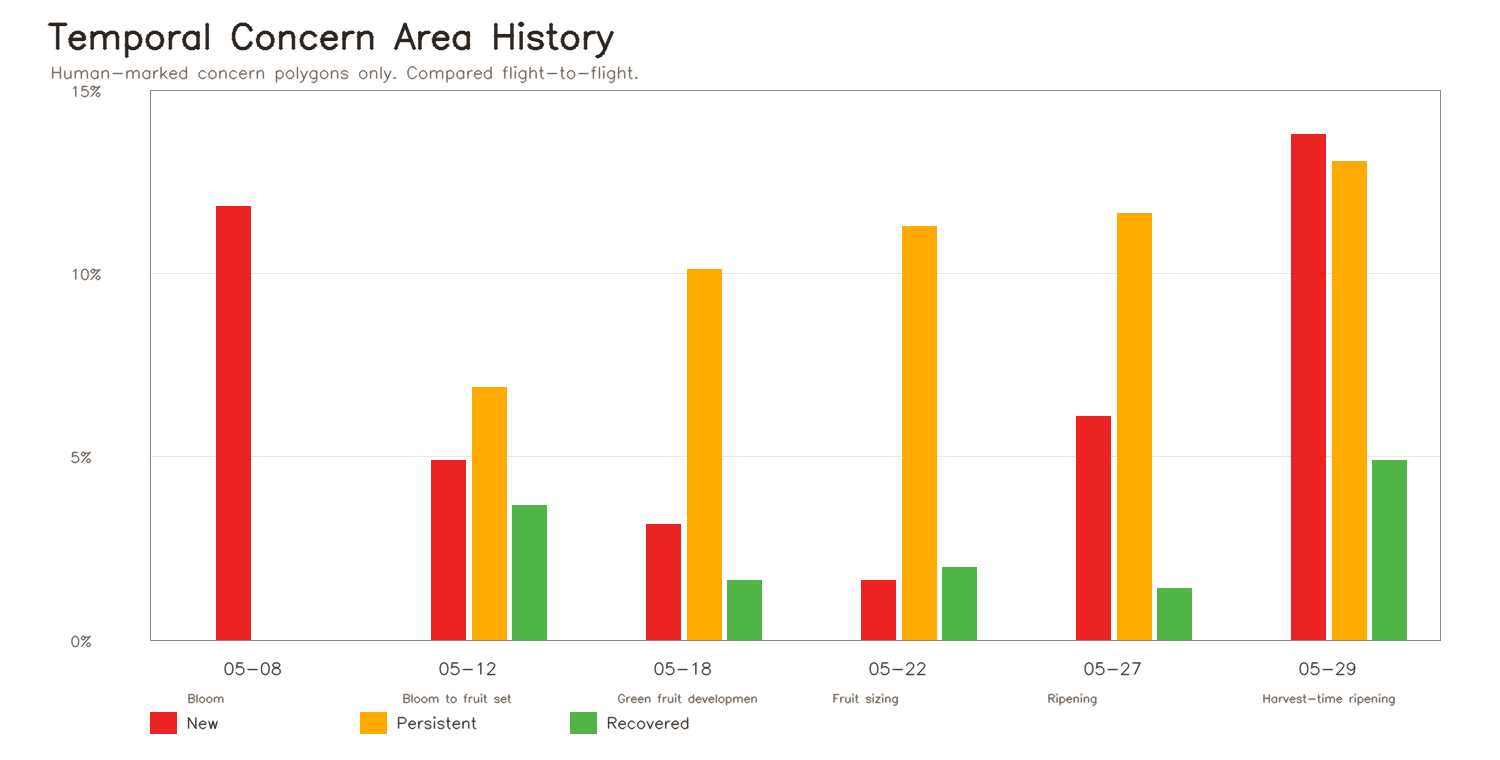
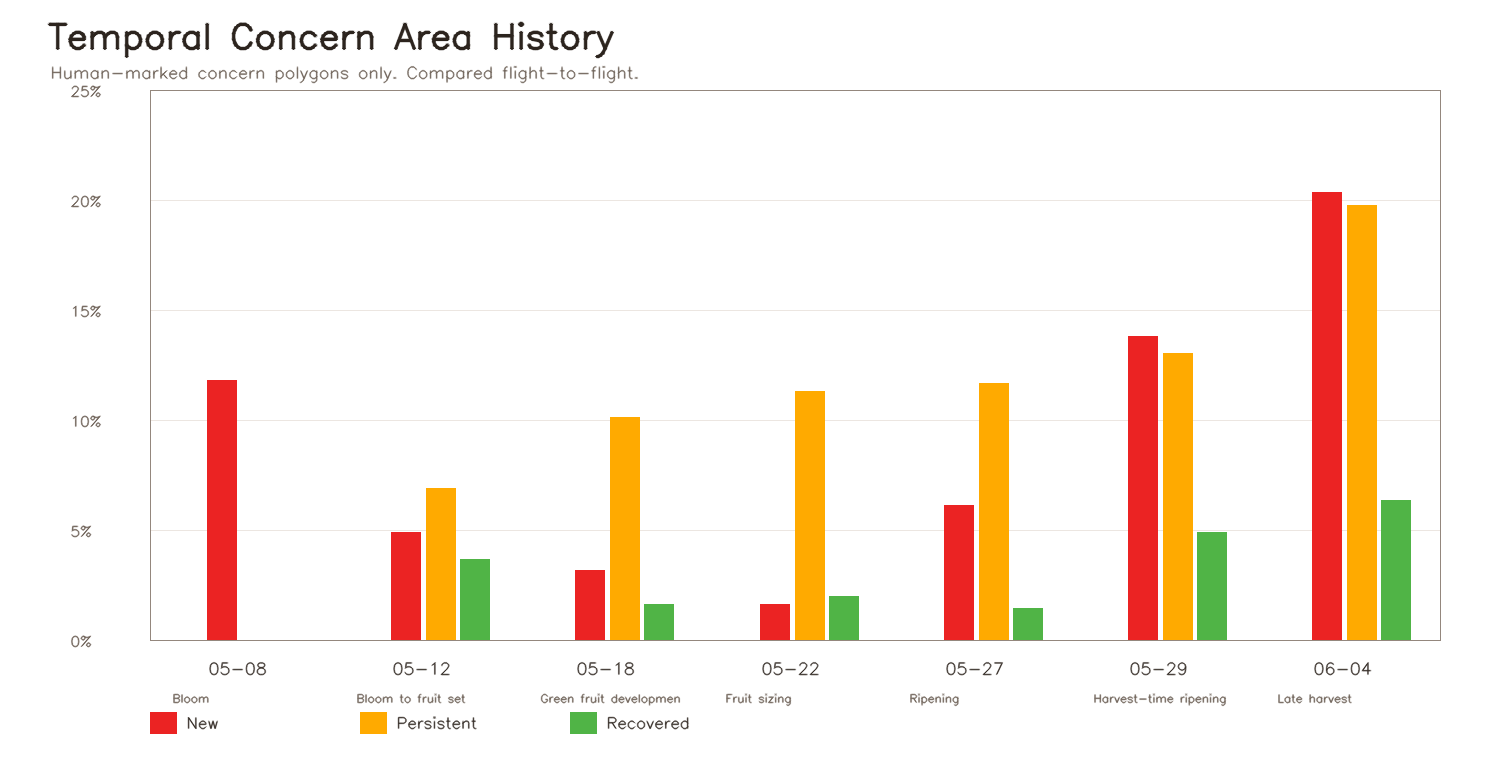
Add June 4 concern review outputs

diff --git a/web_viewer/app.js b/web_viewer/app.js
@@ -17,7 +17,8 @@ const DATES = [
     "persistentConcern": "0.0",
     "recovered": "0.0",
     "status": "Expanding",
-    "statusNote": "Concern area increased since previous flight."
+    "statusNote": "Concern area increased since previous flight.",
+    "annotationNote": ""
   },
   {
     "date": "2026-05-12",
@@ -37,7 +38,8 @@ const DATES = [
     "persistentConcern": "6.875",
     "recovered": "3.656",
     "status": "Monitor",
-    "statusNote": "Monitor concern areas on next flight."
+    "statusNote": "Monitor concern areas on next flight.",
+    "annotationNote": ""
   },
   {
     "date": "2026-05-18",
@@ -57,7 +59,8 @@ const DATES = [
     "persistentConcern": "10.117",
     "recovered": "1.632",
     "status": "Monitor",
-    "statusNote": "Monitor concern areas on next flight."
+    "statusNote": "Monitor concern areas on next flight.",
+    "annotationNote": ""
   },
   {
     "date": "2026-05-22",
@@ -77,7 +80,8 @@ const DATES = [
     "persistentConcern": "11.273",
     "recovered": "1.978",
     "status": "Stable",
-    "statusNote": "Concern footprint is stable relative to previous flight."
+    "statusNote": "Concern footprint is stable relative to previous flight.",
+    "annotationNote": ""
   },
   {
     "date": "2026-05-27",
@@ -97,7 +101,8 @@ const DATES = [
     "persistentConcern": "11.641",
     "recovered": "1.411",
     "status": "Monitor",
-    "statusNote": "Monitor concern areas on next flight."
+    "statusNote": "Monitor concern areas on next flight.",
+    "annotationNote": ""
   },
   {
     "date": "2026-05-29",
@@ -117,7 +122,29 @@ const DATES = [
     "persistentConcern": "13.039",
     "recovered": "4.907",
     "status": "Review",
-    "statusNote": "Concern expanded sharply since previous flight."
+    "statusNote": "Concern expanded sharply since previous flight.",
+    "annotationNote": ""
+  },
+  {
+    "date": "2026-06-04",
+    "growthStage": "Late harvest / post-harvest review",
+    "source": "Mallard-Avenue-6-4-2026-orthophoto-NDVI.png",
+    "raw": "assets/2026-06-04/raw.png",
+    "human": "assets/2026-06-04/human_annotation_overlay.png",
+    "density": "assets/2026-06-04/concern_density.png",
+    "preview": "assets/2026-06-04/vigour_zone_preview.png",
+    "uncertainty": "assets/2026-06-04/uncertainty.png",
+    "newConcernLayer": "assets/2026-06-04/new_concern.png",
+    "persistentConcernLayer": "assets/2026-06-04/persistent_concern.png",
+    "recoveredLayer": "assets/2026-06-04/recovered_area.png",
+    "print": "assets/2026-06-04/print.png",
+    "percentFieldAffected": "40.095",
+    "newConcern": "20.349",
+    "persistentConcern": "19.746",
+    "recovered": "6.319",
+    "status": "Review",
+    "statusNote": "Concern expanded sharply since previous flight.",
+    "annotationNote": "Concern polygons only; no low/medium/high vigour annotation source available."
   }
 ];
 
@@ -217,6 +244,7 @@ function render() {
   el("statusBadge").textContent = entry.status || "Monitor";
   el("statusBadge").className = `status-badge ${String(entry.status || "Monitor").toLowerCase()}`;
   el("statusNote").textContent = entry.date === "2026-05-29" ? "Concern expanded sharply since previous flight." : (entry.statusNote || "");
+  el("annotationNote").textContent = entry.annotationNote || "";
   el("temporalMetrics").innerHTML = `
     <div><strong>${entry.percentFieldAffected || "0"}%</strong><span>field affected</span></div>
     <div><strong>${entry.newConcern || "0"}%</strong><span>new</span></div>

diff --git a/web_viewer/index.html b/web_viewer/index.html
@@ -35,6 +35,7 @@
     <p>Ground check required.</p>
     <div id="statusBadge" class="status-badge">Monitor</div>
     <p id="statusNote" class="status-note"></p>
+    <p id="annotationNote" class="annotation-note"></p>
     <div id="temporalMetrics" class="metrics"></div>
     <figure class="chart">
       <img src="assets/temporal_timeline_chart.png" alt="Temporal concern area chart">

diff --git a/web_viewer/styles.css b/web_viewer/styles.css
@@ -79,6 +79,11 @@ input[type="range"] { width: 100%; }
   color: #f0c36a !important;
   line-height: 1.35;
 }
+.annotation-note {
+  color: #f0c36a !important;
+  font-size: 12px;
+  line-height: 1.35;
+}
 .metrics {
   display: grid;
   grid-template-columns: 1fr 1fr;

diff --git a/build_product_v1_web_viewer.py b/build_product_v1_web_viewer.py
@@ -21,7 +21,15 @@ PRODUCT_DIR = ROOT / "human_anchored_vigour_zone_preview_product"
 PRINT_DIR = ROOT / "daily_outputs"
 VIEWER_DIR = ROOT / "web_viewer"
 ASSETS_DIR = VIEWER_DIR / "assets"
-DATES = ["2026-05-08", "2026-05-12", "2026-05-18", "2026-05-22", "2026-05-27", "2026-05-29"]
+DATES = ["2026-05-08", "2026-05-12", "2026-05-18", "2026-05-22", "2026-05-27", "2026-05-29", "2026-06-04"]
+EXTRA_SUMMARY = {
+    "2026-06-04": {
+        "raw_path": r"C:\Users\Chimera\Downloads\Strawberry 1\Mallard-Avenue-6-4-2026-orthophoto-NDVI.png",
+        "annotated_path": "",
+        "polygon_path": r"C:\Users\Chimera\Downloads\strawberry1-annotation-polygon\Mallard-Avenue-6-4-2026-orthophoto-NDVI-polygon.png",
+        "status": "REVIEW",
+    }
+}
 
 COLORS_BGR = {
     "low_vigour": (35, 35, 235),
@@ -33,7 +41,9 @@ COLORS_BGR = {
 def read_summary() -> dict[str, dict[str, str]]:
     path = PRODUCT_DIR / "product_audit_summary.csv"
     with path.open(newline="", encoding="utf-8") as handle:
-        return {row["date"]: row for row in csv.DictReader(handle)}
+        rows = {row["date"]: row for row in csv.DictReader(handle)}
+    rows.update({date: value for date, value in EXTRA_SUMMARY.items() if date not in rows})
+    return rows
 
 
 def read_temporal_analytics() -> dict[str, dict[str, str]]:
@@ -71,6 +81,8 @@ def write_png(path: Path, image: np.ndarray) -> None:
 
 
 def human_annotation_overlay(raw_bgr: np.ndarray, annotated_path: str) -> np.ndarray:
+    if not annotated_path or not Path(annotated_path).exists():
+        return np.zeros((*raw_bgr.shape[:2], 4), dtype=np.uint8)
     annotated = load(annotated_path)
     annotated, _ = resize_annotated_to_raw(raw_bgr, annotated)
     annotation_mask = get_annotation_mask(raw_bgr, annotated)
@@ -135,7 +147,11 @@ def build_assets() -> list[dict[str, str]]:
         uncertainty = cv2.resize(load(date_dir / "concern_uncertainty_panel.png"), (raw.shape[1], raw.shape[0]), interpolation=cv2.INTER_AREA)
 
         write_png(out_dir / "raw.png", raw)
-        write_png(out_dir / "human_annotation_overlay.png", human_annotation_overlay(raw, row["annotated_path"]))
+        human_layer = human_annotation_overlay(raw, row.get("annotated_path", ""))
+        if not np.any(human_layer[:, :, 3]):
+            concern_reference = cv2.resize(load(date_dir / "seed_polygons.png"), (raw.shape[1], raw.shape[0]), interpolation=cv2.INTER_NEAREST)
+            human_layer = rgba_from_layer(concern_reference, np.any(concern_reference > 0, axis=2), 225)
+        write_png(out_dir / "human_annotation_overlay.png", human_layer)
         write_png(out_dir / "concern_density.png", concern_density_overlay(seed))
         write_png(out_dir / "vigour_zone_preview.png", preview_overlay(preview))
         write_png(out_dir / "uncertainty.png", uncertainty_overlay(uncertainty))
@@ -163,6 +179,7 @@ def build_assets() -> list[dict[str, str]]:
                 "recovered": temporal_row.get("recovered_percent_field", ""),
                 "status": temporal_row.get("status", "Monitor"),
                 "statusNote": temporal_row.get("status_note", ""),
+                "annotationNote": "Concern polygons only; no low/medium/high vigour annotation source available." if not row.get("annotated_path") else "",
             }
         )
     return rows
@@ -208,6 +225,7 @@ def write_viewer(rows: list[dict[str, str]]) -> None:
     <p>Ground check required.</p>
     <div id="statusBadge" class="status-badge">Monitor</div>
     <p id="statusNote" class="status-note"></p>
+    <p id="annotationNote" class="annotation-note"></p>
     <div id="temporalMetrics" class="metrics"></div>
     <figure class="chart">
       <img src="assets/temporal_timeline_chart.png" alt="Temporal concern area chart">
@@ -377,6 +395,7 @@ function render() {
   el("statusBadge").textContent = entry.status || "Monitor";
   el("statusBadge").className = `status-badge ${String(entry.status || "Monitor").toLowerCase()}`;
   el("statusNote").textContent = entry.date === "2026-05-29" ? "Concern expanded sharply since previous flight." : (entry.statusNote || "");
+  el("annotationNote").textContent = entry.annotationNote || "";
   el("temporalMetrics").innerHTML = `
     <div><strong>${entry.percentFieldAffected || "0"}%</strong><span>field affected</span></div>
     <div><strong>${entry.newConcern || "0"}%</strong><span>new</span></div>
@@ -480,6 +499,11 @@ input[type="range"] { width: 100%; }
 .status-badge.review { background: #9a1f26; }
 .status-note {
   color: #f0c36a !important;
+  line-height: 1.35;
+}
+.annotation-note {
+  color: #f0c36a !important;
+  font-size: 12px;
   line-height: 1.35;
 }
 .metrics {

diff --git a/build_june4_concern_assets.py b/build_june4_concern_assets.py
@@ -1,0 +1,106 @@
+from __future__ import annotations
+
+from pathlib import Path
+
+import cv2
+import numpy as np
+
+from strawberry_vigour_polygon_report.src.annotation_parser import get_annotation_mask, resize_annotated_to_raw
+from strawberry_vigour_polygon_report.src.growth_stage import growth_stage_for_date
+
+
+ROOT = Path(__file__).resolve().parent
+PRODUCT_DIR = ROOT / "human_anchored_vigour_zone_preview_product"
+DATE = "2026-06-04"
+RAW_PATH = Path(r"C:\Users\Chimera\Downloads\Strawberry 1\Mallard-Avenue-6-4-2026-orthophoto-NDVI.png")
+POLYGON_PATH = Path(r"C:\Users\Chimera\Downloads\strawberry1-annotation-polygon\Mallard-Avenue-6-4-2026-orthophoto-NDVI-polygon.png")
+
+
+def load(path: Path) -> np.ndarray:
+    image = cv2.imread(str(path), cv2.IMREAD_COLOR)
+    if image is None:
+        raise FileNotFoundError(path)
+    return image
+
+
+def save(path: Path, image: np.ndarray) -> None:
+    path.parent.mkdir(parents=True, exist_ok=True)
+    cv2.imwrite(str(path), image)
+
+
+def extract_polygon_masks(raw: np.ndarray, polygon: np.ndarray) -> tuple[np.ndarray, np.ndarray]:
+    diff_mask = get_annotation_mask(raw, polygon)
+    gray = cv2.cvtColor(polygon, cv2.COLOR_BGR2GRAY)
+    stroke = ((gray < 80) & (diff_mask > 0)).astype(np.uint8) * 255
+    kernel = cv2.getStructuringElement(cv2.MORPH_ELLIPSE, (5, 5))
+    closed = cv2.morphologyEx(stroke, cv2.MORPH_CLOSE, kernel)
+    contours, _hierarchy = cv2.findContours((closed > 0).astype(np.uint8), cv2.RETR_EXTERNAL, cv2.CHAIN_APPROX_SIMPLE)
+    filled = np.zeros_like(stroke)
+    min_area = max(150.0, raw.shape[0] * raw.shape[1] * 0.00001)
+    for contour in contours:
+        if cv2.contourArea(contour) >= min_area:
+            cv2.drawContours(filled, [contour], -1, 255, cv2.FILLED)
+    return stroke, filled
+
+
+def transparent_overlay(raw: np.ndarray, layer: np.ndarray, alpha: float) -> np.ndarray:
+    active = np.any(layer > 0, axis=2)
+    mixed = cv2.addWeighted(raw, 1.0 - alpha, layer, alpha, 0)
+    out = raw.copy()
+    out[active] = mixed[active]
+    return out
+
+
+def panel(image: np.ndarray, title: str, size: tuple[int, int] = (520, 360)) -> np.ndarray:
+    w, h = size
+    title_h = 40
+    canvas = np.full((h + title_h, w, 3), 255, dtype=np.uint8)
+    scale = min(w / image.shape[1], h / image.shape[0])
+    resized = cv2.resize(image, (max(1, int(image.shape[1] * scale)), max(1, int(image.shape[0] * scale))), interpolation=cv2.INTER_AREA)
+    x = (w - resized.shape[1]) // 2
+    y = title_h + (h - resized.shape[0]) // 2
+    canvas[y : y + resized.shape[0], x : x + resized.shape[1]] = resized
+    cv2.putText(canvas, title, (12, 27), cv2.FONT_HERSHEY_SIMPLEX, 0.7, (30, 30, 30), 2, cv2.LINE_AA)
+    return canvas
+
+
+def main() -> None:
+    raw = load(RAW_PATH)
+    polygon = load(POLYGON_PATH)
+    polygon, _resized = resize_annotated_to_raw(raw, polygon)
+
+    stroke, filled = extract_polygon_masks(raw, polygon)
+    seed = np.zeros_like(raw)
+    seed[filled > 0] = (32, 32, 32)
+    seed[stroke > 0] = (0, 0, 0)
+
+    human_ref = raw.copy()
+    human_ref[stroke > 0] = (0, 0, 0)
+    preview = np.zeros_like(raw)
+    uncertainty = np.full_like(raw, 55)
+    uncertainty[filled > 0] = (0, 170, 255)
+    overlay = transparent_overlay(raw, seed, 0.45)
+
+    date_dir = PRODUCT_DIR / DATE
+    save(date_dir / "raw_ndvi.png", raw)
+    save(date_dir / "human_annotation_outlines.png", human_ref)
+    save(date_dir / "seed_polygons.png", seed)
+    save(date_dir / "human_anchored_vigour_preview.png", preview)
+    save(date_dir / "human_anchored_vigour_preview_overlay.png", raw)
+    save(date_dir / "raw_vs_preview_side_by_side.png", np.hstack([raw, overlay]))
+    save(date_dir / "concern_uncertainty_panel.png", uncertainty)
+
+    proof = np.vstack(
+        [
+            np.hstack([panel(raw, "1. Raw NDVI/background"), panel(human_ref, "2. Concern polygons"), panel(seed, "3. Concern areas")]),
+            np.hstack([panel(preview, "4. Vigour preview unavailable"), panel(overlay, "5. Raw + concern overlay"), panel(uncertainty, "6. Concern review")]),
+        ]
+    )
+    save(date_dir / "six_panel_product_proof.png", proof)
+
+    print(f"[WRITE] {date_dir}")
+    print(f"[INFO] {DATE} {growth_stage_for_date(DATE)} uses concern polygons only; no vigour annotation source was available.")
+
+
+if __name__ == "__main__":
+    main()

diff --git a/build_product_v1_print_outputs.py b/build_product_v1_print_outputs.py
@@ -13,7 +13,15 @@ ROOT = Path(__file__).resolve().parent
 PRODUCT_DIR = ROOT / "human_anchored_vigour_zone_preview_product"
 OUTPUT_DIR = ROOT / "daily_outputs"
 FIELD_NAME = "Strawberry 1"
-DATES = ["2026-05-08", "2026-05-12", "2026-05-18", "2026-05-22", "2026-05-27", "2026-05-29"]
+DATES = ["2026-05-08", "2026-05-12", "2026-05-18", "2026-05-22", "2026-05-27", "2026-05-29", "2026-06-04"]
+EXTRA_SUMMARY = {
+    "2026-06-04": {
+        "raw_path": r"C:\Users\Chimera\Downloads\Strawberry 1\Mallard-Avenue-6-4-2026-orthophoto-NDVI.png",
+        "annotated_path": "",
+        "polygon_path": r"C:\Users\Chimera\Downloads\strawberry1-annotation-polygon\Mallard-Avenue-6-4-2026-orthophoto-NDVI-polygon.png",
+        "status": "REVIEW",
+    }
+}
 STATUS_COLORS = {
     "Stable": (70, 160, 85),
     "Monitor": (0, 170, 255),
@@ -25,7 +33,9 @@ STATUS_COLORS = {
 def read_summary() -> dict[str, dict[str, str]]:
     path = PRODUCT_DIR / "product_audit_summary.csv"
     with path.open(newline="", encoding="utf-8") as handle:
-        return {row["date"]: row for row in csv.DictReader(handle)}
+        rows = {row["date"]: row for row in csv.DictReader(handle)}
+    rows.update({date: value for date, value in EXTRA_SUMMARY.items() if date not in rows})
+    return rows
 
 
 def read_temporal() -> dict[str, dict[str, str]]:
@@ -145,11 +155,13 @@ def build_daily_print(date: str, summary: dict[str, str], temporal: dict[str, st
     draw_legend(page, 1115, 245)
 
     strip_y = 1618
+    preview_title = "Vigour preview" if np.any(preview > 0) else "Vigour preview unavailable"
+    human_title = "Human annotations" if date != "2026-06-04" else "Concern polygons"
     thumbs = [
         thumbnail(raw, "Raw NDVI"),
-        thumbnail(human, "Human annotations"),
+        thumbnail(human, human_title),
         thumbnail(overlay_density(raw, density, 0.45), "Concern density"),
-        thumbnail(preview, "Vigour zone preview"),
+        thumbnail(preview, preview_title),
     ]
     x = 70
     for thumb in thumbs:

diff --git a/strawberry_vigour_polygon_report/src/growth_stage.py b/strawberry_vigour_polygon_report/src/growth_stage.py
@@ -12,6 +12,7 @@ GROWTH_STAGE_BY_MM_DD = {
     "05-22": "Fruit sizing / early ripening",
     "05-27": "Ripening / early harvest window",
     "05-29": "Harvest-time ripening",
+    "06-04": "Late harvest / post-harvest review",
 }
 
 
@@ -26,6 +27,7 @@ GROWTH_STAGE_NOTES = {
     "Fruit sizing / early ripening": "The crop is approaching ripening; expanding or persistent zones should be reviewed before harvest pressure peaks.",
     "Ripening / early harvest window": "Harvest-time scouting should focus on repeated low and medium zones while separating field-edge effects from production rows.",
     "Harvest-time ripening": "Late-season class maps support harvest review and next-season scouting priorities.",
+    "Late harvest / post-harvest review": "Late-season review should focus on persistence, recovery, and expansion of marked concern areas.",
 }
 
 

diff --git a/build_temporal_analytics.py b/build_temporal_analytics.py
@@ -13,7 +13,7 @@ ROOT = Path(__file__).resolve().parent
 PRODUCT_DIR = ROOT / "human_anchored_vigour_zone_preview_product"
 DAILY_DIR = ROOT / "daily_outputs"
 WEB_ASSETS_DIR = ROOT / "web_viewer" / "assets"
-DATES = ["2026-05-08", "2026-05-12", "2026-05-18", "2026-05-22", "2026-05-27", "2026-05-29"]
+DATES = ["2026-05-08", "2026-05-12", "2026-05-18", "2026-05-22", "2026-05-27", "2026-05-29", "2026-06-04"]
 TEMPORAL_COLORS = {
     "new": (35, 35, 235),
     "persistent": (0, 170, 255),
